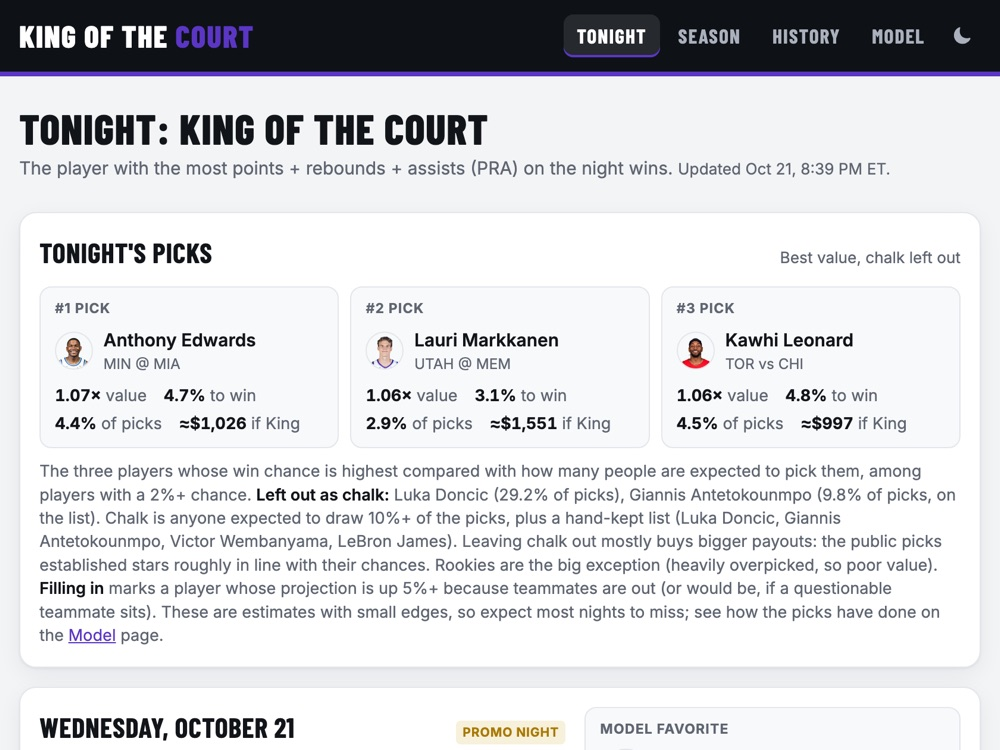
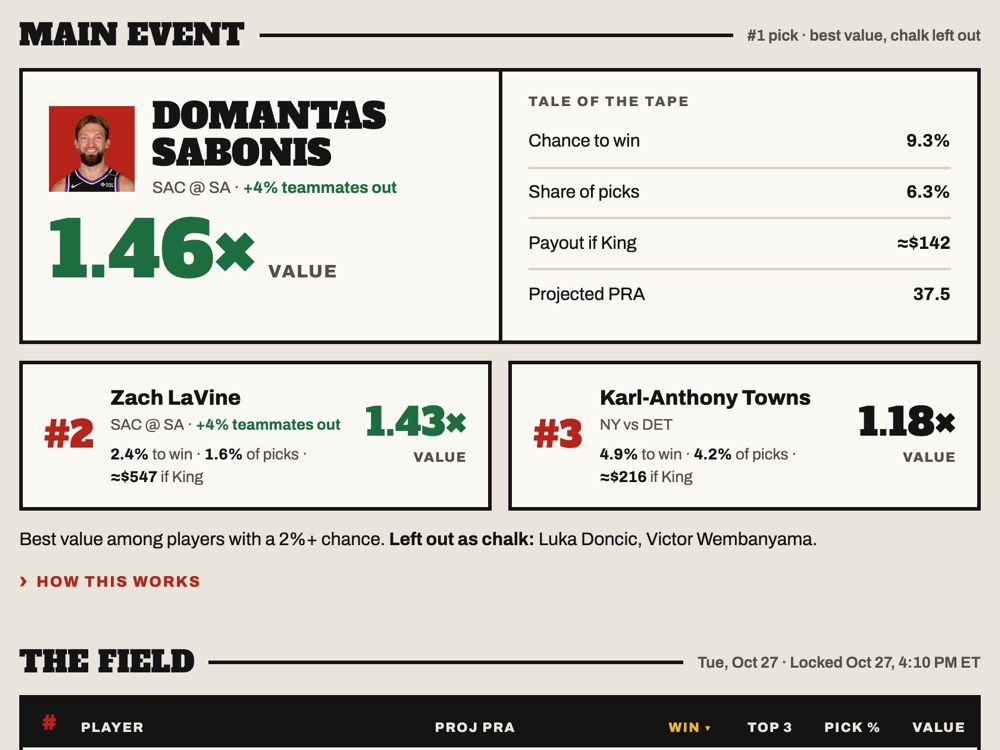
chore(img): re-shoot kotc-tracker after its redesign
kotc-tracker v0.6 replaced the look in the old screenshot. The new
shot starts at the main event picks, since the poster masthead alone
would fill the frame and hide what the card's alt text describes.

diff --git a/README.md b/README.md
@@ -13,7 +13,9 @@ Plain HTML and one stylesheet, no build step. GitHub Pages serves `main`.
   temporary stale-pull `.banner` could be hidden; the others with headless Chrome
   (`--blink-settings=preferredColorScheme=1`, or they come out dark when macOS is in dark mode).
   `uva-records.jpg` (dashboard) and `kotc-tracker.jpg` (Tonight, Oct 21, 2026) were added for v0.3 the
-  same way. nba-first-minute is left off on purpose, so the betting projects don't dominate the page.
+  same way. `kotc-tracker.jpg` was re-shot on Oct 27, 2026 after its v0.6 redesign, with Playwright: scrolled
+  to the "Main event" picks (the poster masthead alone fills the frame) with `#hero` and `#live-card` hidden
+  so the frame ends on a section heading. nba-first-minute is left off on purpose, so the betting projects don't dominate the page.
 
 The work section stays generic: no employer name and no internal app names. The featured chart's
 numbers come from `cfb-picks/data/backtest.json` (v1) and `backtest-v3.json` (v2 and v3). The reason
